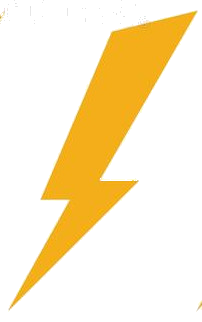
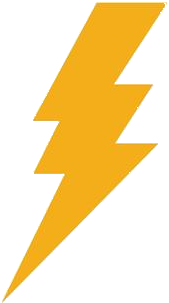
some edits

diff --git a/style.css b/style.css
@@ -35,7 +35,7 @@ body {
 .play-board {
     width: 100%;
     height: 100%;
-    animation: dayChanges 60s infinite linear;
+    animation: dayChanges 120s infinite linear;
     position: relative;
 }
 
@@ -110,7 +110,7 @@ body {
     display: inline-block;
 }
 
-#init-menu a:hover, #win a:hover #gameOver a:hover { background-color: #cf10bb; border-color: #090909; color: rgb(20, 22, 22);}
+#init-menu a:hover, #win a:hover, #gameOver a:hover { background-color: #cf10bb; border-color: #090909; color: rgb(20, 22, 22);}
 
 .story {
     border-width: 1px;
@@ -123,8 +123,8 @@ body {
 }
 
 .rules {
-    color: #52624a;
-    font-size: 0.8rem;
+    color: #393d37;
+    font-size: 0.9rem;
     font-weight: 100;
     margin: 30px;
 }
@@ -204,12 +204,13 @@ body {
 .lightning {
     position: absolute;
     background: url(img/lighting.png);
-    background-size: 60px;
+    background-size: 30px;
     width: 30px;
-    height: 60px;
+    height: 50px;
 }
 
 .bullet {
+    position: absolute;
     background-color: #16cb25;
     border-radius: 50%;
     width: 10px;
@@ -218,7 +219,6 @@ body {
 
 .bulletSets{
     position: absolute;
-    /* width: 25%; */
     top: 5%;
     left: 5%;
     display: grid;

diff --git a/enentList.js b/enentList.js
@@ -1,5 +1,5 @@
 // Listen for keyboard input
-//movement
+
 document.addEventListener('keydown', event => {
     // Move the player left when the left arrow key is pressed
     if (event.code === "ArrowLeft") {
@@ -23,14 +23,13 @@ document.addEventListener('keydown', event => {
   // shooting !!! add reload (timeout for key pressing)
   let spaceKeyPressed = false;
   document.addEventListener('keydown', function(event) {
-    if (event.key === 'w' && !spaceKeyPressed) {
+    if (event.key === 'w' || event.key === 'W' && !spaceKeyPressed) {
       spaceKeyPressed = true;
-      console.log("shoot")
       shootBullet()
     }
   });
   document.addEventListener('keyup', function(event) {
-    if (event.key === 'w') {
+    if (event.key === 'w' || event.key === 'W' ) {
       spaceKeyPressed = false;
     }
   });

diff --git a/draw.js b/draw.js
@@ -151,8 +151,7 @@ function shootBullet(){
       const bullet = document.createElement('div');
       let bulletObj = new Bullet(bullet, 100);
       bullet.className = 'bullet'
-      bullet.style.position = 'absolute';
-      bullet.style.top = '99%';
+      bullet.style.top = '95%';
       bullet.style.left = `${playerX}%`;
       bullets.push(bulletObj);
       gameBoard.appendChild(bullet);
@@ -176,7 +175,7 @@ function gameLoop() {
   seconds = seconds < 10 ? "0" + seconds : seconds;
   timeLabel.innerHTML = `${minutes} : ${seconds}`;
 
-  if (time <= 0) handleWin(); 
+  if (time < 0) handleWin(); 
   
   // Update the player's position
   if (isMovement){

diff --git a/index.html b/index.html
@@ -20,7 +20,7 @@
             <p>As a result of global warming, water from the oceans began to evaporate rapidly. Your task is to save the city from flooding.</p>
         </div>
         <br> <a href="#" onclick="play()">Play</a>
-        <p class="rules">Use 3 keys:  <br> <- and -> for moving <br>Alt for shooting</p>
+        <p class="rules">Use 3 keys:  <br><b> <-</b> and <b>-></b> for moving <br><b>w</b> for shooting</p>
     </div>
 
     <div id="gameOver" style="display:none">
